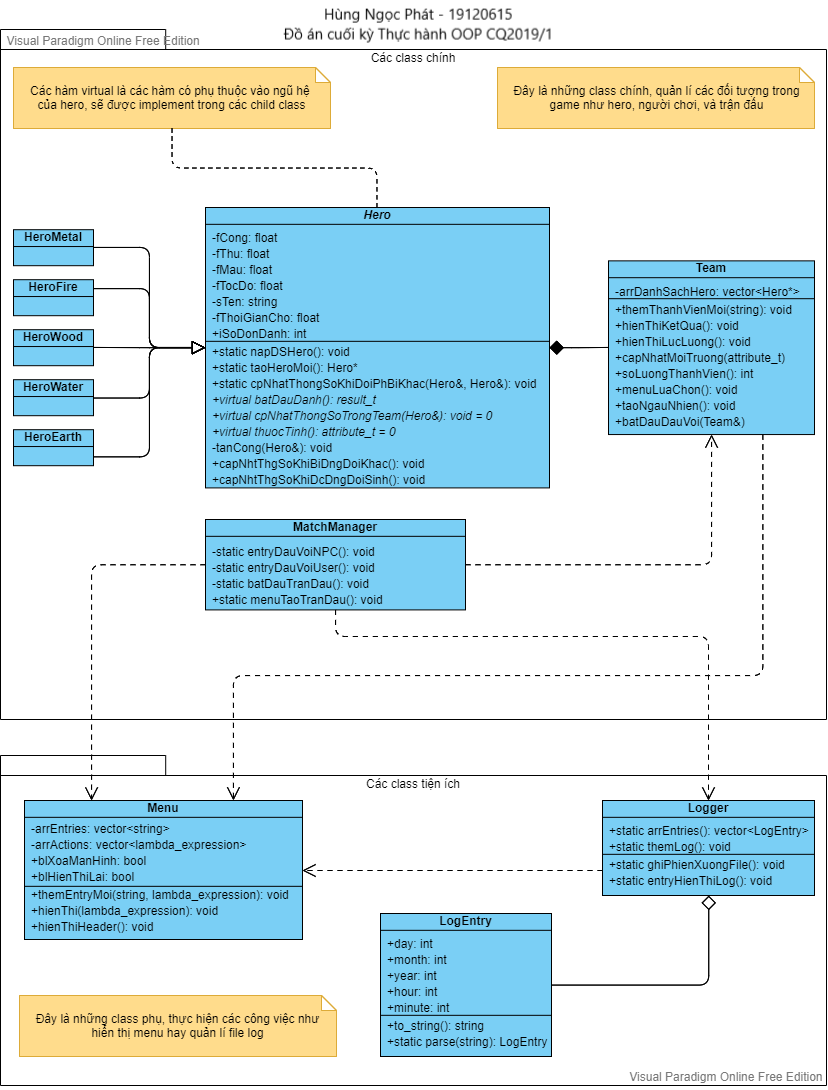
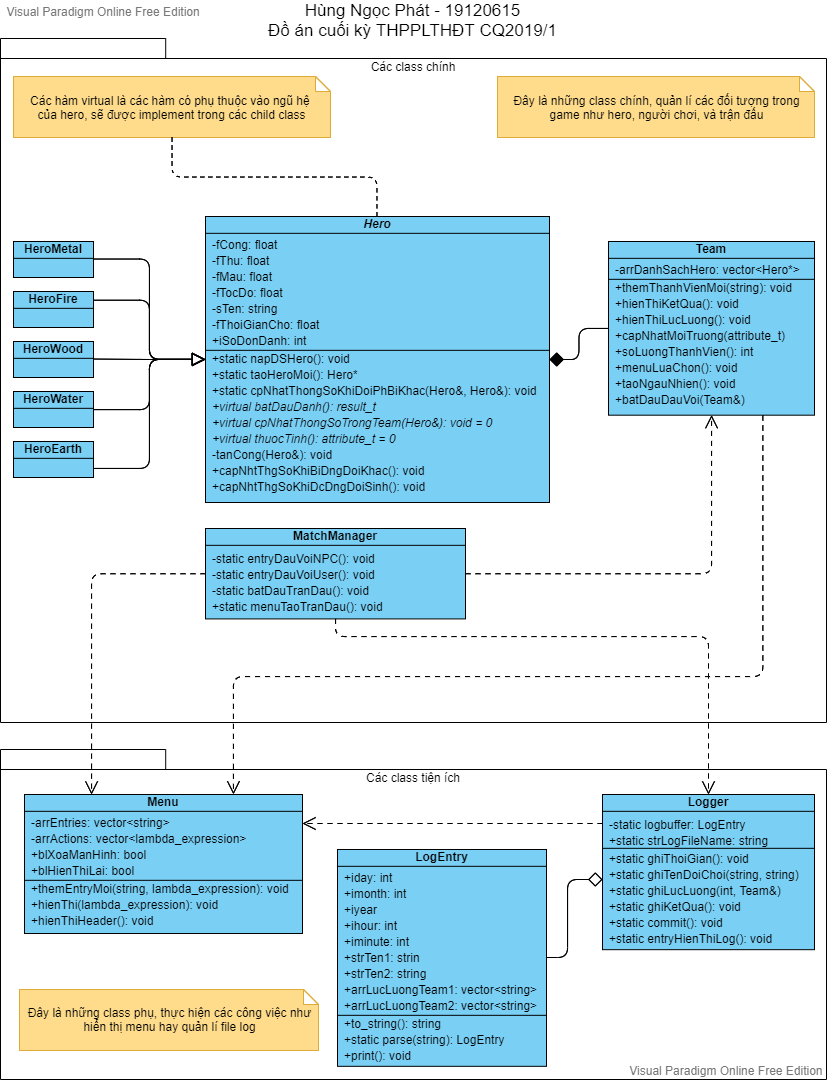
Cơ bản là hoạt động ok 100%

diff --git a/README.md b/README.md
@@ -1,3 +1,6 @@
+<!--GITHUB LINK: https://github.com/hungngocphat01/19120615-HeroFighter-->
+<!--Private repo, em sẽ public sau khi thầy khoá deadline-->
+
 <div align="center">
 <h2>ĐỒ ÁN CUỐI KỲ</h2>
 <h1>THỰC HÀNH PHƯƠNG PHÁP LẬP TRÌNH HƯỚNG ĐỐI TƯỢNG</h1>
@@ -13,9 +16,23 @@ LỚP 19_1, HỌC KỲ 2 NĂM HỌC 2020 - 2021
 - Trình biên dịch: Microsoft Visual C++ Compiler (MSCV).
 - Chuẩn ngôn ngữ: MSVC C++14.
 - Ngày bắt đầu: 20/05/2021.
-- Ngày kết thúc: --
+- Ngày kết thúc: 13/06/2021.
 - Hoàn tất debug: --
- 
+- Số lượng dòng code (báo cáo từ lệnh `cloc`):
+  ```
+  -------------------------------------------------------------------------------
+  Language                     files          blank        comment           code
+  -------------------------------------------------------------------------------
+  C++                              8            176            154           1001
+  C/C++ Header                     7             75            106            239
+  -------------------------------------------------------------------------------
+  SUM:                            15            251            260           1240
+  -------------------------------------------------------------------------------
+  ```
+
+- Sơ đồ lớp: 
+![Ảnh sơ đồ lớp](19120615 - Class Diagram.png)
+
 # 2. Về quy tắc đặt tên biến
 - Hầu hết tên biến đều được đặt bằng tiếng Việt, đôi khi sẽ phải viết tắt để tiết kiệm không gian.<br>
   Một số vị trí mà dùng tiếng Việt không được phù hợp lắm thì em xin phép được ghi tiếng Anh.
@@ -48,4 +65,4 @@ LỚP 19_1, HỌC KỲ 2 NĂM HỌC 2020 - 2021
 - `Module Utils`: chứa các hàm tiện ích riêng lẻ.
 
 # 4. Build và chạy
-= Import project vào Visual Studio và build như bình thường.
+- Import project vào Visual Studio và build như bình thường.
